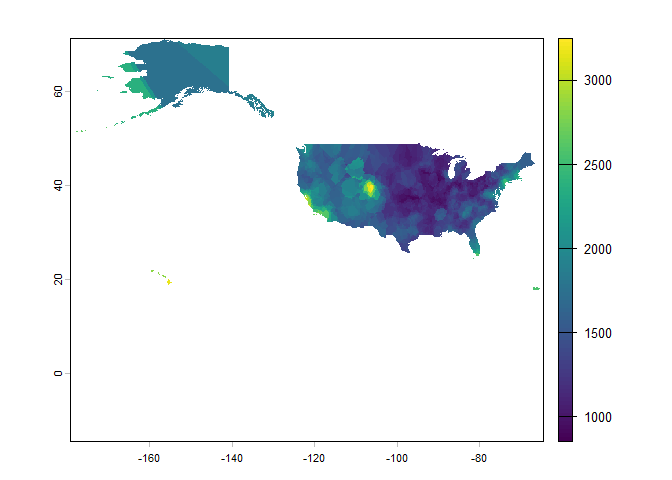
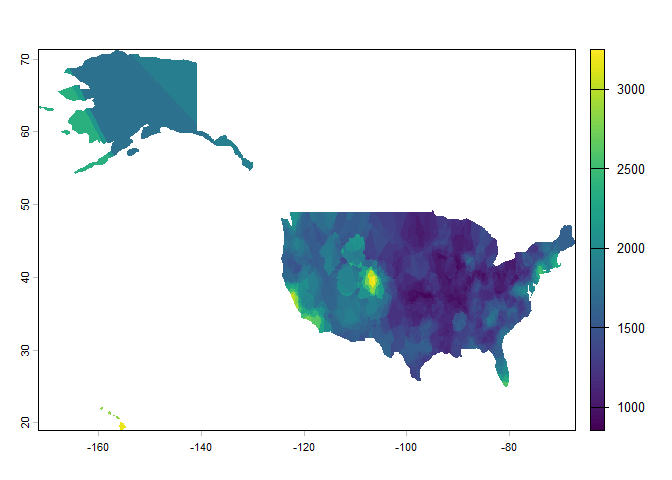
Updated clip layer

diff --git a/RentRaster/nationalRentalRaster.md b/RentRaster/nationalRentalRaster.md
@@ -104,24 +104,25 @@ kable(top10)
 bottom10 <- rentalData |> 
   arrange(desc(`2025-11-30`)) |>
   select(RegionName, SizeRank, `2025-11-30`) |> 
+  filter(is.na(`2025-11-30`) == FALSE) |> 
   slice_tail(n = 10) |> 
   arrange(`2025-11-30`)
 
 kable(bottom10)
 ```
 
-| RegionName        | SizeRank | 2025-11-30 |
-|:------------------|---------:|-----------:|
-| Weatherford, OK   |      831 |         NA |
-| Crescent City, CA |      840 |         NA |
-| Altus, OK         |      864 |         NA |
-| Mitchell, SD      |      878 |         NA |
-| Maryville, MO     |      895 |         NA |
-| Price, UT         |      912 |         NA |
-| Los Alamos, NM    |      916 |         NA |
-| Andrews, TX       |      920 |         NA |
-| Snyder, TX        |      926 |         NA |
-| Vermillion, SD    |      932 |         NA |
+| RegionName     | SizeRank | 2025-11-30 |
+|:---------------|---------:|-----------:|
+| Greenville, OH |      593 |   695.8983 |
+| Austin, MN     |      698 |   756.2650 |
+| Emporia, KS    |      767 |   762.8088 |
+| Rolla, MO      |      659 |   763.0070 |
+| Great Bend, KS |      857 |   766.9679 |
+| Freeport, IL   |      657 |   773.0214 |
+| Indiana, PA    |      436 |   791.7954 |
+| Hutchinson, KS |      527 |   797.5921 |
+| Johnstown, PA  |      322 |   805.7160 |
+| Danville, IL   |      472 |   816.7278 |
 
 #### My Favorite Places
 
@@ -217,8 +218,8 @@ usaMap <- ne_states("united states of america", returnclass = "sf")
 
 # Generates a simple exploratory map
 ggplot() +
-  geom_point(data = geoData, aes(x = Long, y = Lat, color = `2025-11-30`)) +
   geom_sf(data = usaMap, fill = NA, color = "grey") +
+  geom_point(data = geoData, aes(x = Long, y = Lat, color = `2025-11-30`)) +
   coord_sf(xlim = c(-165, -60)) +
   labs(
     title = "Exploratory Map of Points",
@@ -264,8 +265,8 @@ Now, I believe I need to turn my data into a vector layer.
 # Turn my data into a vector of points
 vectData <- vect(geoData, c("XLong", "XLat"), crs = "EPSG:4326")
 
-# grab a U.S. shapefile I happen to have and vectorize that as well for cropping
-vectUSA <- vect("C:/Users/Luke/OneDrive/Documents/Cartography/Shapefiles/Census.gov/cb_2018_us_state_500k/cb_2018_us_state_500k.shp", crs = "EPSG:3857")
+# grab a U.S. shapefile for cropping
+vectUSA <- ne_countries(country = "united states of america", returnclass = "sv")
 ```
 
 #### Proximity Polygon Interpolation
@@ -406,7 +407,6 @@ gsNNI <- gstat(formula = X2025_11_30 ~ 1, # designates simple krieging on this v
             set = list(idp = 0) # inverse distance power = 0 means all 5 neighbors equally weighted
             )
 # interpolates to a raster based on the spatial model
-  # **Very large operation/file**
 NNI <- interpolate(r, gsNNI, debug.level = 0)
 
 NNIMask <- mask(NNI, rasterData)
